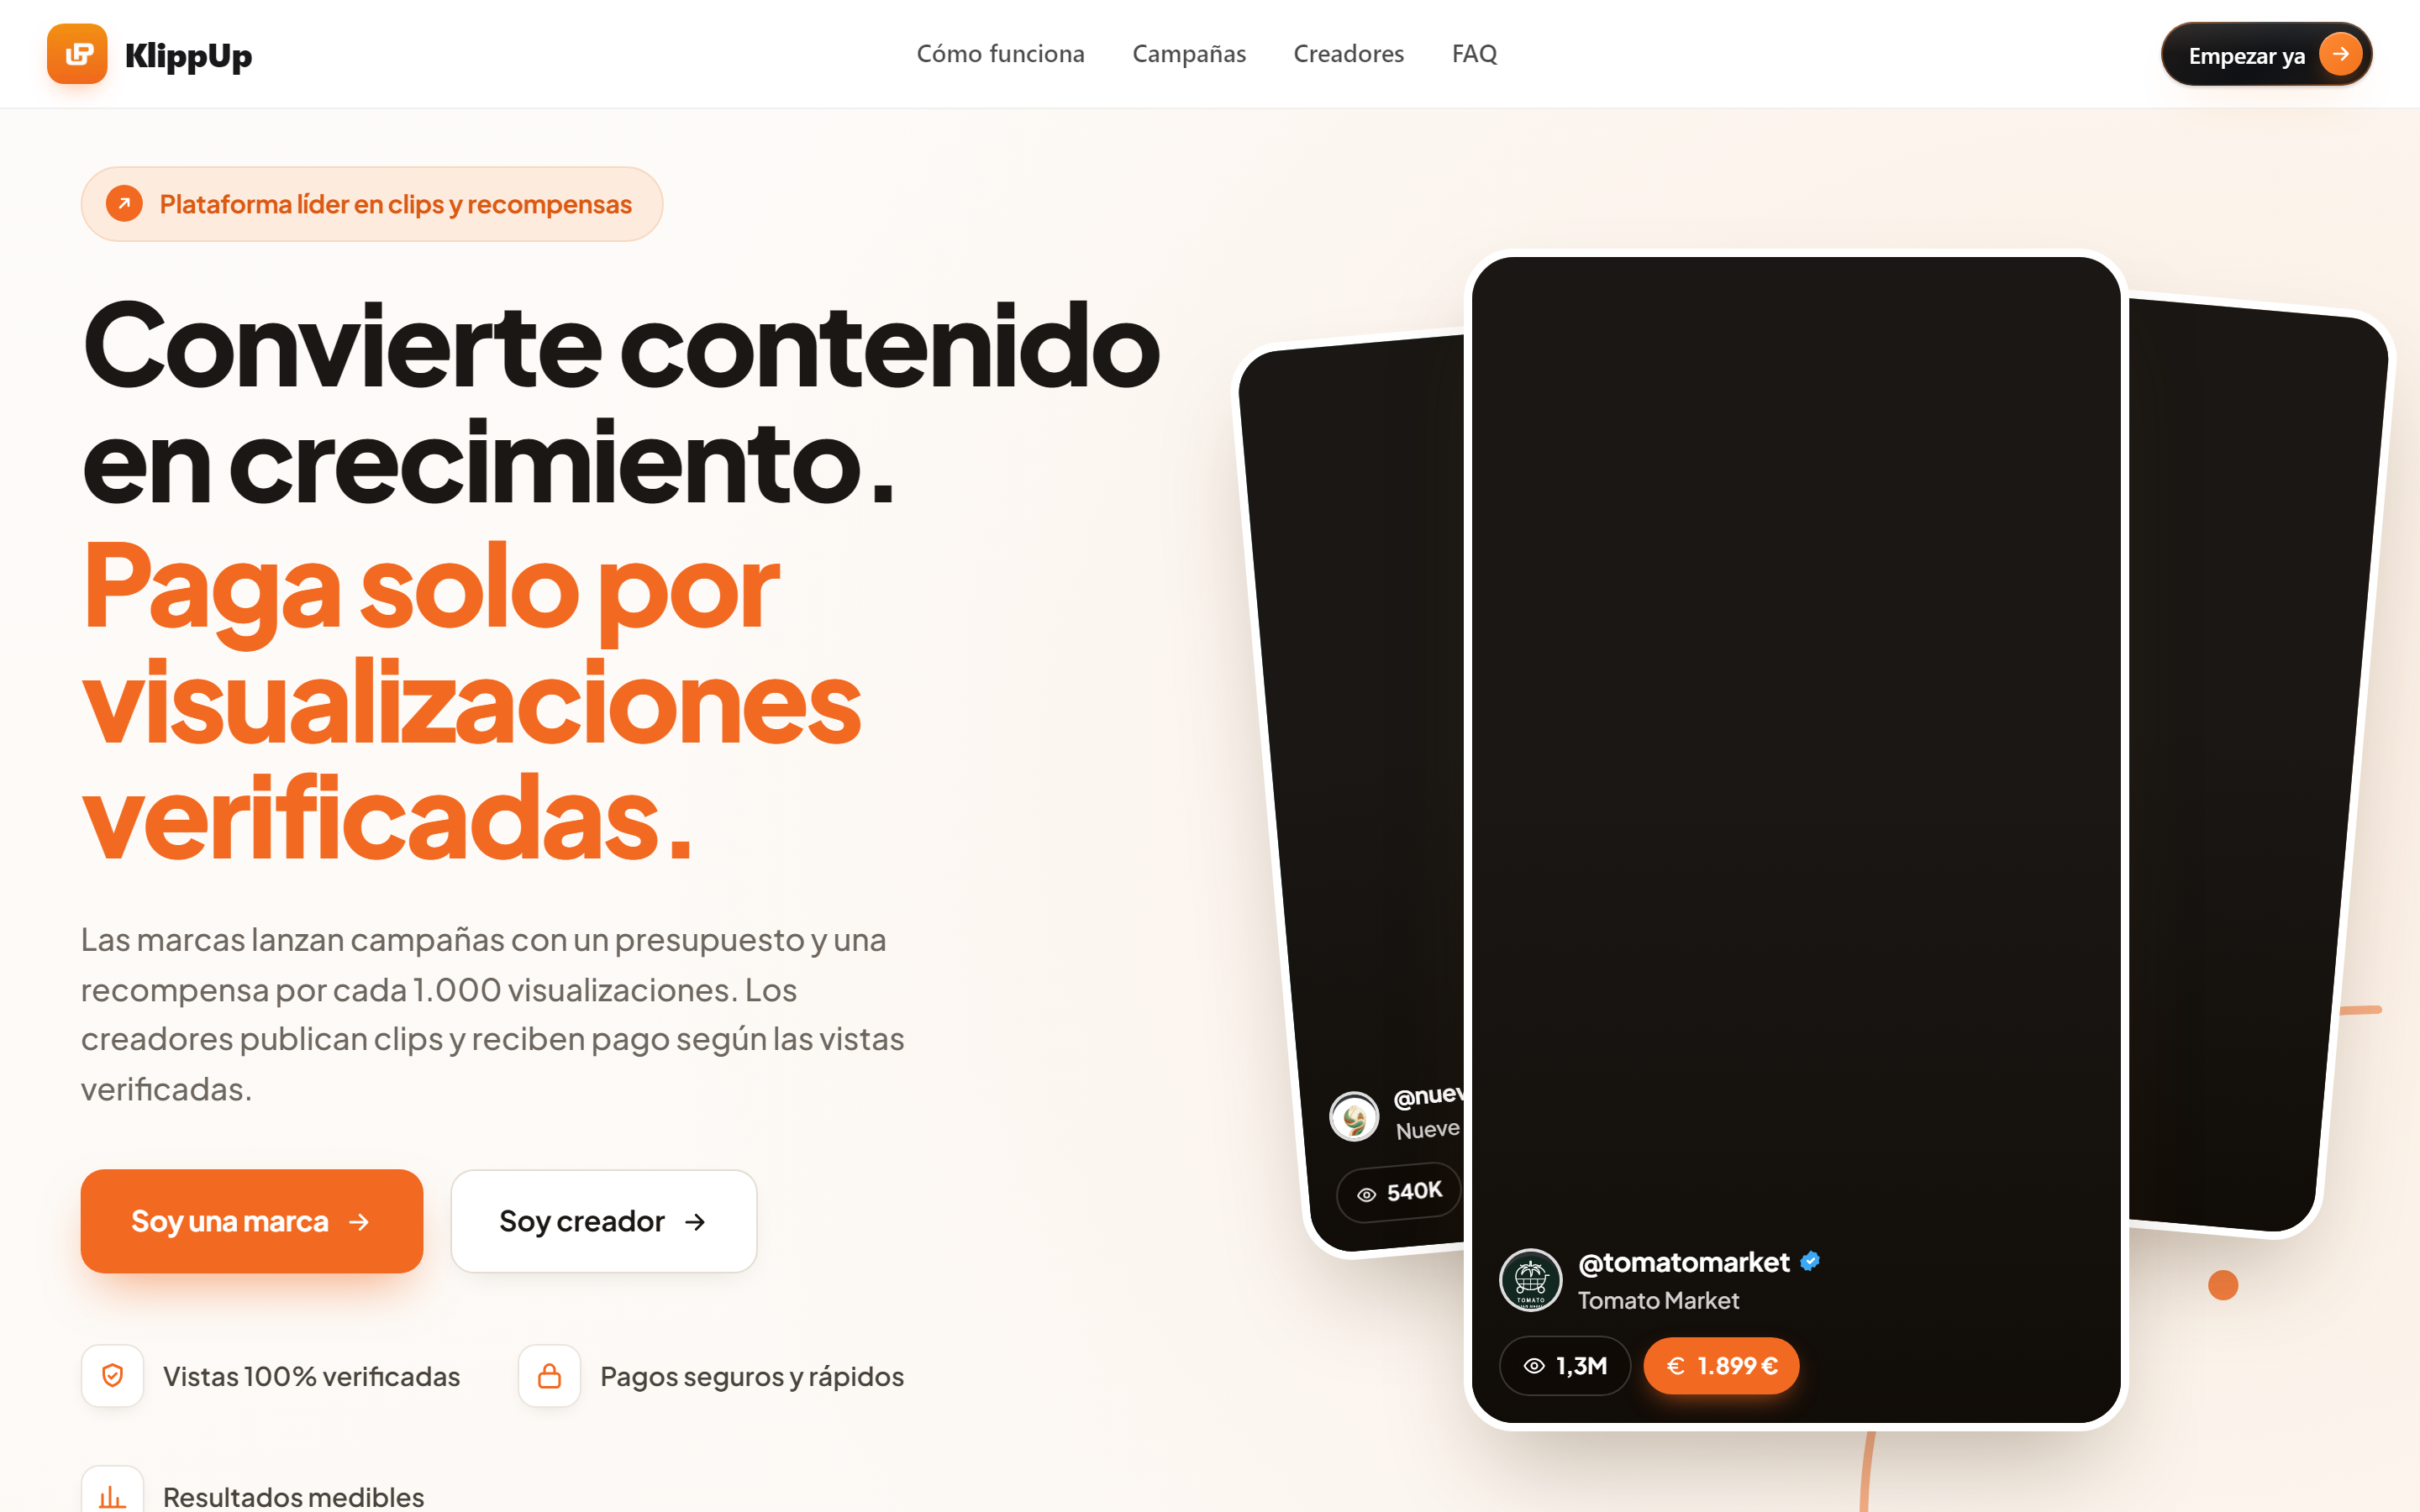
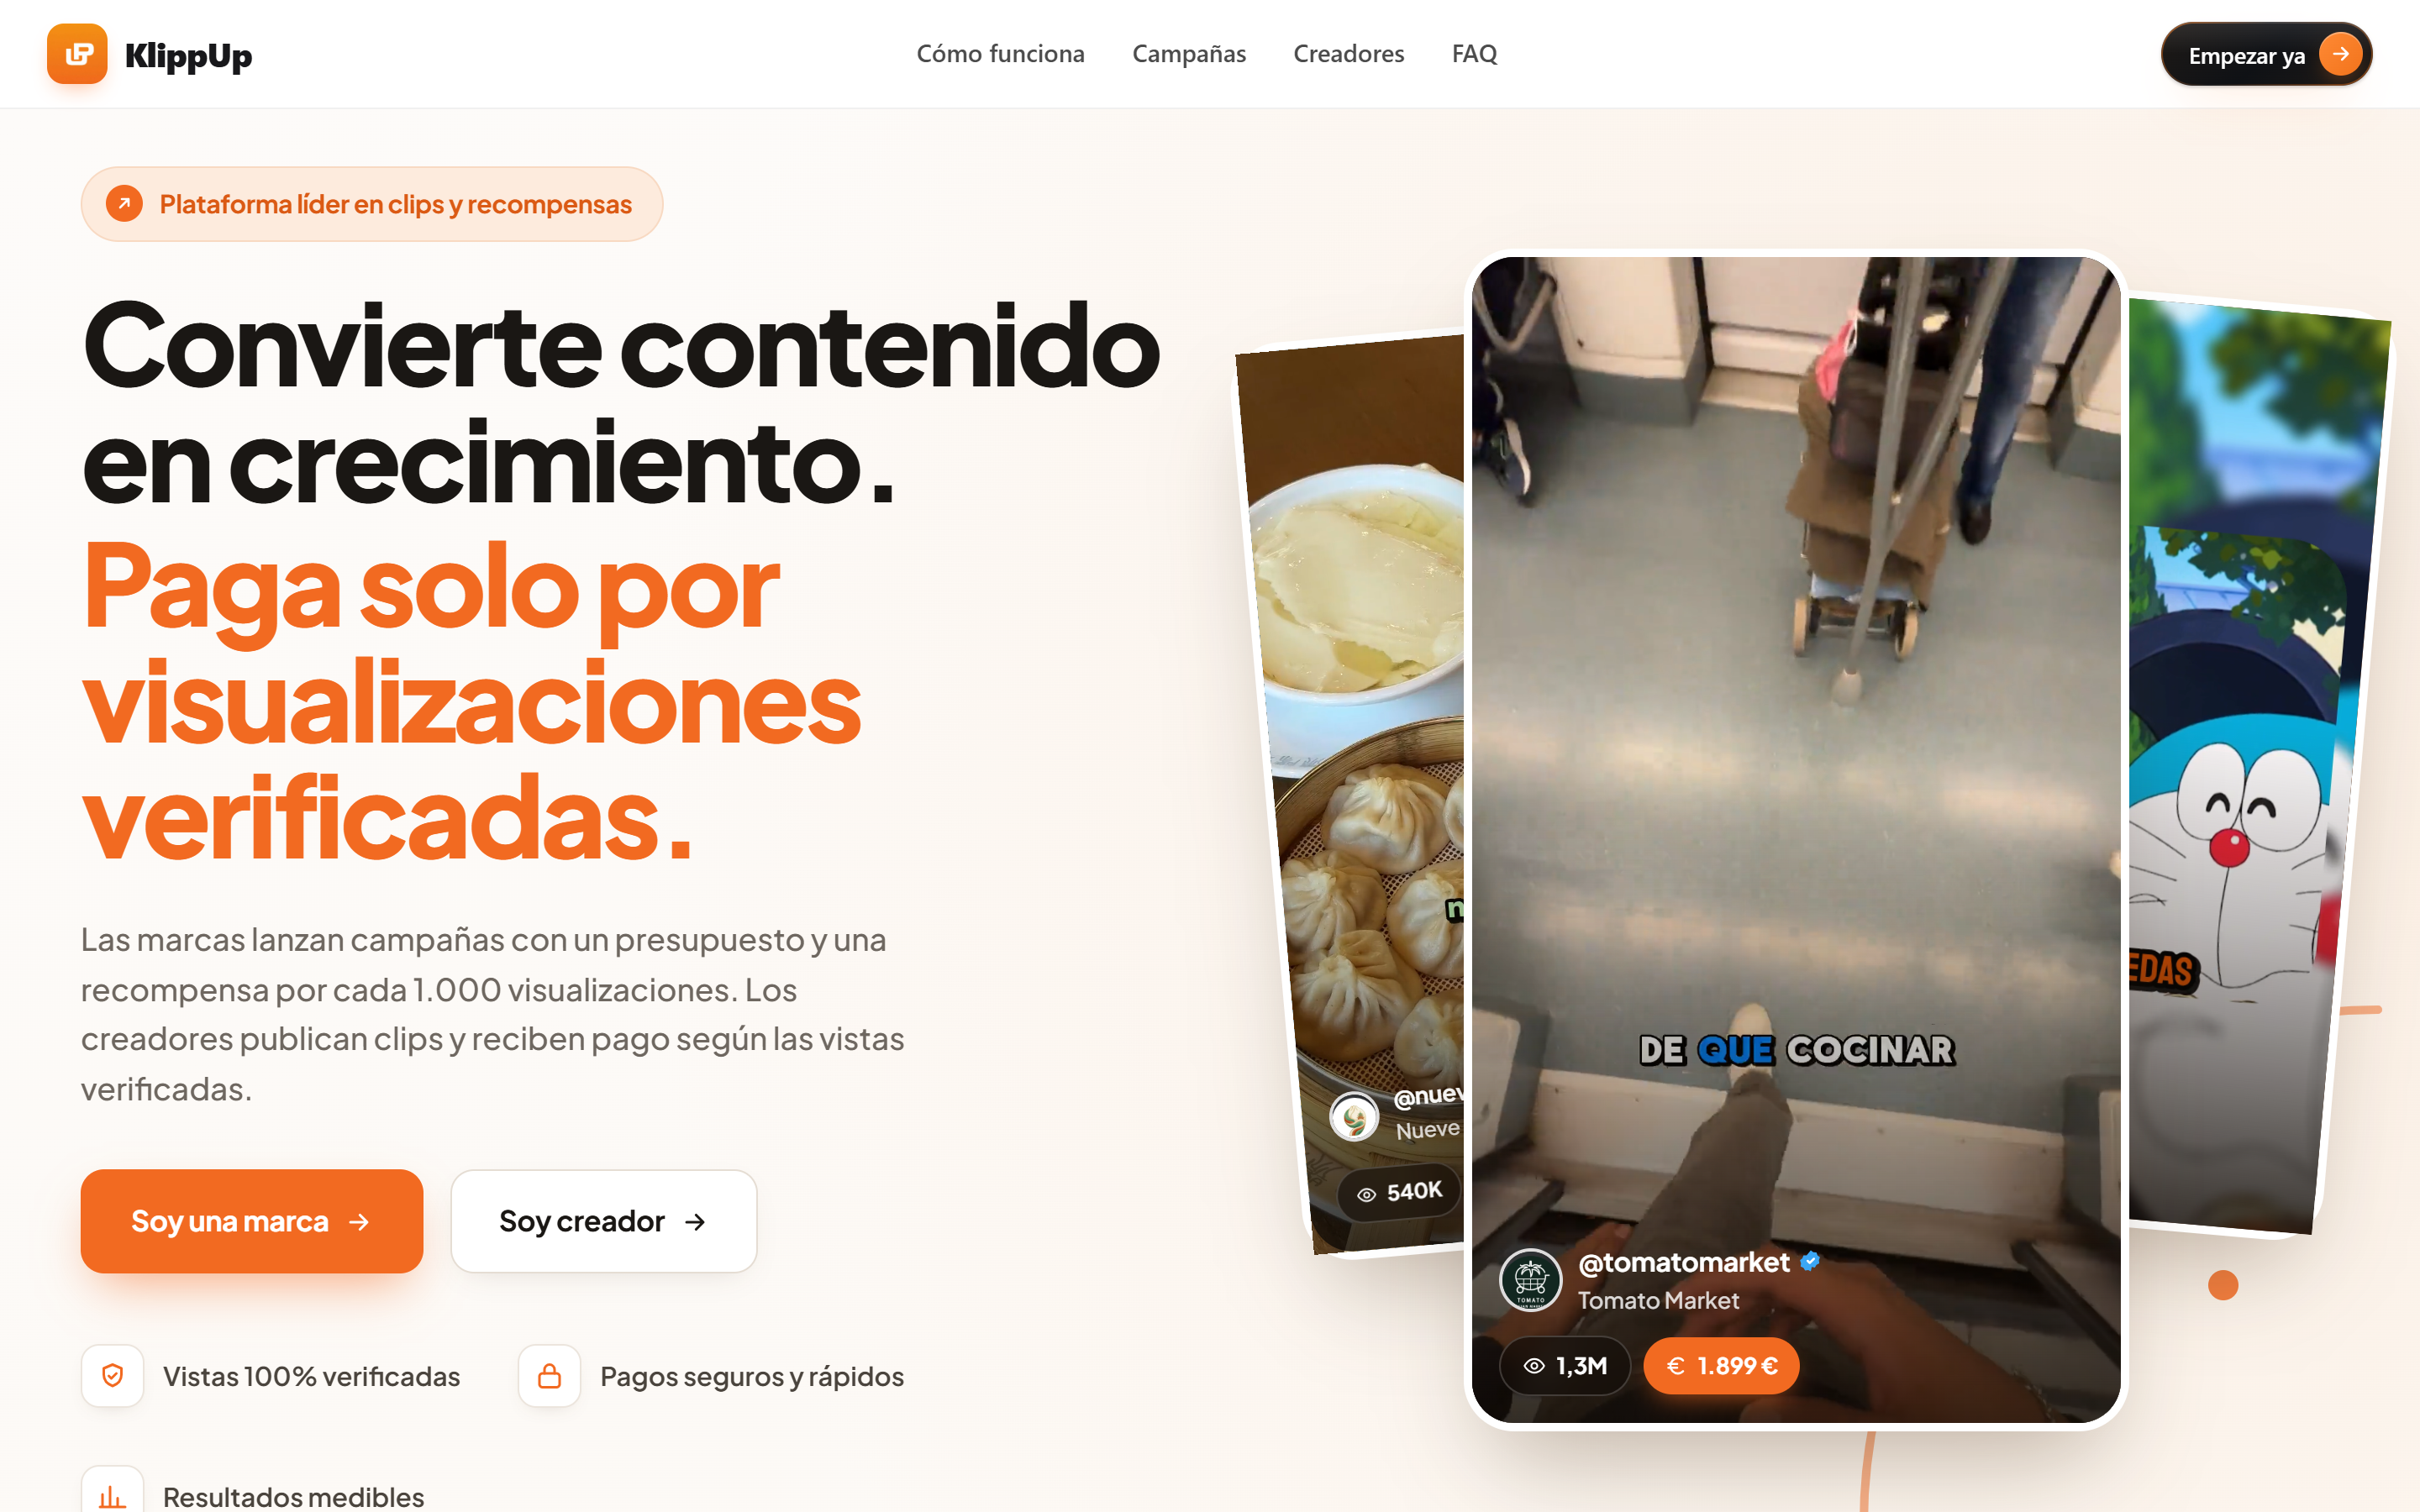
fix(portfolio): recapturar hero de KlippUp y eliminar Reformlab de la lista
- klippup.png recapturado con Edge (códecs H.264) → los 3 clips del hero se ven.
- Eliminada la entrada Reformlab Barcelona de PROJECTS y FEATURED_SLUGS.

Changed region(s): [[0.5, 0.1556, 1.0, 0.9644]]

diff --git a/lib/portfolio.ts b/lib/portfolio.ts
@@ -53,14 +53,6 @@ export const PROJECTS: Project[] = [
     image: "/portfolio/chinaway.png",
   },
   {
-    slug: "reformlab-barcelona",
-    name: "Reformlab Barcelona",
-    sector: "reforms",
-    year: 2025,
-    url: "https://reformlab-barcelona.surge.sh",
-    image: "/portfolio/reformlab.png",
-  },
-  {
     slug: "redline-marketing",
     name: "Redline Marketing",
     sector: "marketing",
@@ -131,7 +123,6 @@ export const PROJECTS: Project[] = [
 export const FEATURED_SLUGS = [
   "klippup",
   "chinaway",
-  "reformlab-barcelona",
   "redline-marketing",
   "yg-event-solutions",
   "melodify",